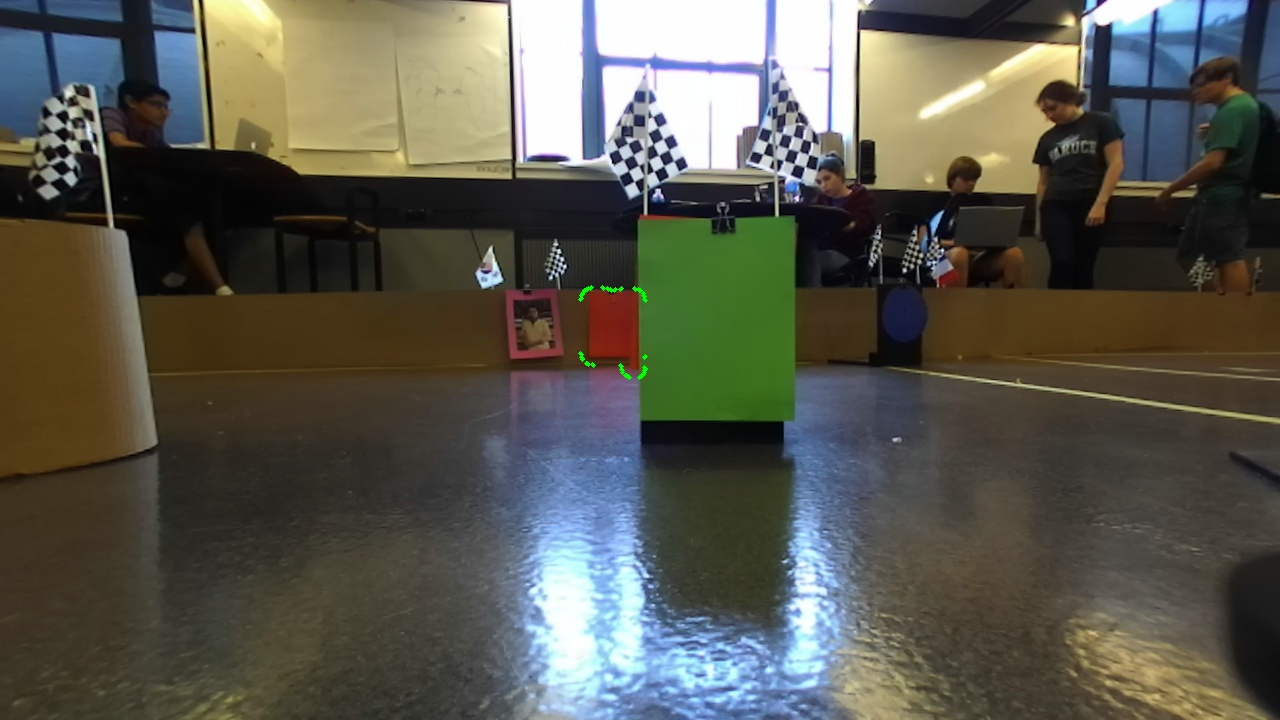
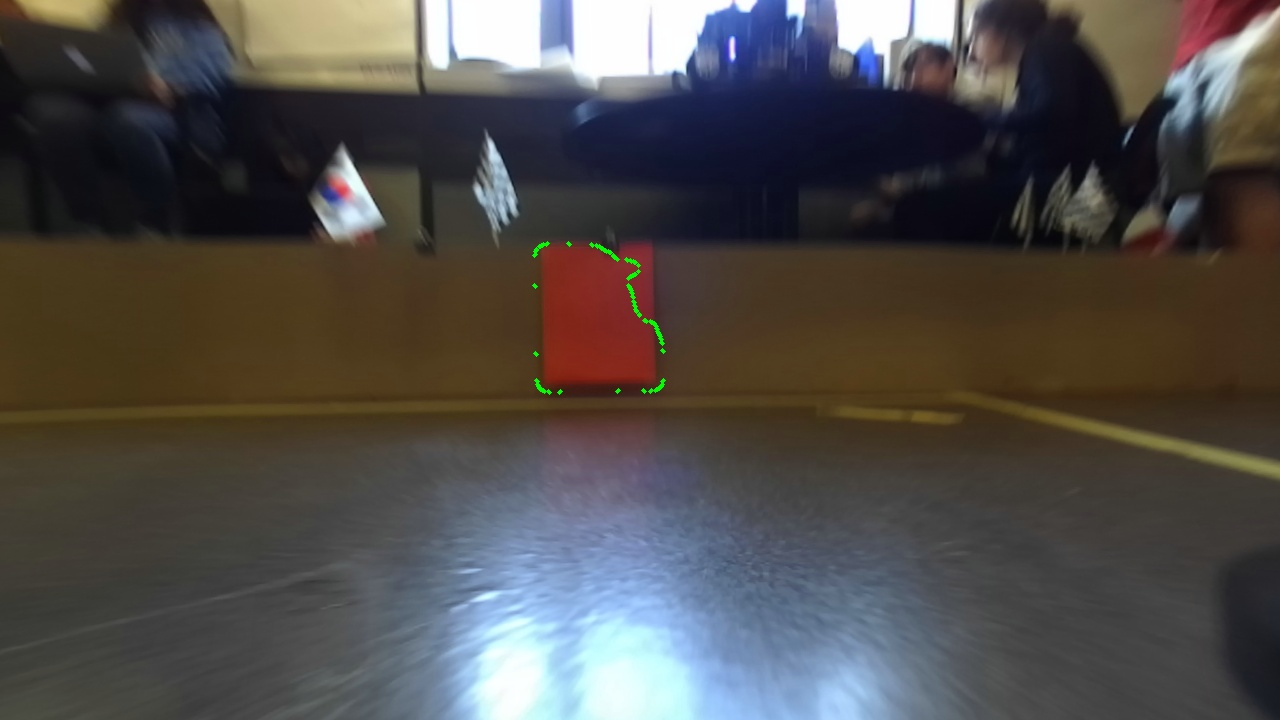
committed

diff --git a/scripts/color_turn.py b/scripts/color_turn.py
@@ -8,13 +8,17 @@ from cv_bridge import CvBridge
 from fieldYifan import getAround
 from racecar import racecar
 from color_pickup import colorPicker, contours
+import PIL
+from PIL import ImageFont
+from PIL import Image
+from PIL import ImageDraw
 
 #state = 1 => driving towards the blob state = 2 => making the turn
-global state = 1
+
 #seen = 1 => haven't finished the turn yet. 2=> finished the turn
-global seen = 1
+
 #default color is red
-global color = "red"
+
 class color_turn:
     def __init__(self):
         print("inited")
@@ -23,34 +27,43 @@ class color_turn:
         self.seen = 1
         self.color = "red"
         self.notTurned = True
+	self.index = 0
         self.img_sub = rospy.Subscriber("/camera/rgb/image_rect_color", img, self.camCallback)
         self.colorDic = {
         "red":[0,165,100,6,255,255],
-        "green":[60,100,100,70,255,255],
+        "green":[40,100,40,88,255,255],
         }
         self.car = racecar()
         self.field = None
-        self.picker = colorPicker("no")
 
     def camCallback(self,msg):
-        print("processing image")
+        
         self.contourList = []
         img_data = self.bridge.imgmsg_to_cv2(msg)
         for keys in self.colorDic:
             self.contourCreation(keys,img_data)
         if len(self.contourList)>0:
-	        print("got to picker")
-            biggest = self.findBiggest(self.contourList)
+	        
+                biggest = self.findBiggest(self.contourList)
+	else:
+		biggest = None
         if biggest != None:
-	        print("found")
+	    
             x,y,w,h = cv2.boundingRect(biggest.contour)
+	    cv2.drawContours(img_data, biggest.contour, -1, (0, 255, 0), 3)
+	   
             if w*h > 20000: #start turning
+		if self.state == 1:
+			print("too big")
                 self.state = 2
                 self.color = biggest.text
             else:
-                error = x+w/2-640
-                steering = -0.01*error
-                self.car.drive(0.5,steering)
+		if self.state == 1:
+			print("driving towards the blob")
+                	error = x+w/2-640
+			self.saveImg(img_data,str(error))
+                	steering = -0.0005*error
+                	self.car.drive(0.5,steering)
         else:
     	    print("doesn't see anything")
     	    if self.state == 2:
@@ -69,7 +82,24 @@ class color_turn:
         if self.field != None:
             if self.seen == 2 and self.notTurned == True:
                 self.notTurned = False
-                self.field.y_boost = -self.field.y_boost
+                self.field.y_boost = -self.field.y_boost * 2
+
+    def contourAppend(self,contourList,contour,color):
+		for x in contour[0]:
+			appendedStuff = contours(x,color)
+			contourList.append(appendedStuff)
+
+    def saveImg(self,img,text):
+    	cv2.imwrite("troll.jpeg",img)
+    	pic = Image.open("troll.jpeg")
+    	font = ImageFont.truetype("/usr/share/fonts/truetype/ubuntu-font-family/Ubuntu-B.ttf",50)
+    	draw = ImageDraw.Draw(pic)
+    	draw.text((0, 0),text,(255,255,0),font=font)
+    	rand = self.index
+    	self.index = self.index + 1
+    	fileName = "/home/racecar/turn_photos/"+str(rand)+".jpeg"
+    	pic.save(fileName,"jpeg")
+
 
     def contourCreation(self,color,img):
         hsv = cv2.cvtColor(img, cv2.COLOR_BGR2HSV)
@@ -85,7 +115,7 @@ class color_turn:
 		for x in contourList:
 			if cv2.contourArea(x.contour)>cv2.contourArea(result.contour):
 				result = x
-		if cv2.contourArea(result.contour)>2500:
+		if cv2.contourArea(result.contour)>1000:
 			return result
 		else:
 			return None

diff --git a/scripts/fieldYifan.py b/scripts/fieldYifan.py
@@ -14,7 +14,7 @@ class getAround:
 		# create Subscriber and initialize racecar class
         self.scanResult = rospy.Subscriber("/scan",LaserScan,self.callBack)
         self.pub_goal = rospy.Publisher("~potentialFieldGoal", PointStamped, queue_size=1)
-        #self.tfResult = rospy.Subscriber("/tf",TFMessage,self.adjust)
+        self.tfResult = rospy.Subscriber("/tf",TFMessage,self.adjust)
 
         # create racecar object
         self.car = racecar()
@@ -22,8 +22,9 @@ class getAround:
         # VARIABLES
         self.STEERING_CONSTANT = 1.0
         self.SPEED_CONSTANT = 0.06
-        self.x_boost = 20
+        self.x_boost = 25
         self.y_boost = 0
+	self.drivingSpeed = 0
         self.boost_constant = 0.02
 
 
@@ -39,7 +40,7 @@ class getAround:
             total_y = total_y - math.sin(radianAng)/(msg.ranges[i]**2)
 
         # incorporate constant coefficients
-        total_x = total_x * self.boost_constant + self.x_boost
+        total_x = total_x * self.boost_constant + self.x_boost - self.drivingSpeed
         total_y = total_y * self.boost_constant + self.y_boost
 
         # Transform this gradient vector into a PoseStamped object
@@ -55,6 +56,7 @@ class getAround:
         # calculate steering_angle & speed
         steering_angle = ((1-2*self.SPEED_CONSTANT) * np.sign(total_x) * math.atan2(total_y, total_x))
         speed = (self.SPEED_CONSTANT * np.sign(total_x) * math.sqrt(total_x**2 + total_y**2))
+	self.drivingSpeed = speed
         #if steering_angle < 0.05:
         #    steering_angle = 10*steering_angle
 
@@ -65,11 +67,11 @@ class getAround:
     '''
     Adjusts the y_boost value to ensure that the car explores the entire space.
     '''
-    #def adjust(self,msg):
-     #   transformation = msg.transforms
-      #  movingComp = transformation[0].transform
-       # vector = movingComp.translation
-        #self.y_boost = -5/(1+5*math.exp(-vector.y))
+    def adjust(self,msg):
+        transformation = msg.transforms
+        movingComp = transformation[0].transform
+        vector = movingComp.translation
+        self.y_boost = -5/(1+5*math.exp(-vector.y))
 
 if __name__ == "__main__":
     # initialize the ROS client API, giving the default node name

diff --git a/scripts/color_pickup.py b/scripts/color_pickup.py
@@ -65,19 +65,21 @@ class colorPicker:
     		bigContour.text += " " + self.shapeContour(bigContour)
     		print(bigContour.text)
         	self.saveImg(img,bigContour.text)
-        	self.img_pub.publish(bigContour.text)
+		self.img_pub.publish(bigContour.text)
         else:
             x,y,w,h = cv2.boundingRect(bigContour.contour)
-            hsv = cv2.cvtColor(img, cv2.COLOR_BGR2GRAY)
+            hsv = cv2.cvtColor(img, cv2.COLOR_BGR2HSV)
+	    gray = cv2.cvtColor(img, cv2.COLOR_BGR2GRAY)
     	    padding = 30
             sliced = hsv[y+padding:y+h-padding,x+padding:x+w-padding,:]
-    	    #mask = cv2.inRange(sliced, np.array([165,100,100]), np.array([170, 255, 255]))
-    	    #pink = cv2.bitwise_not(mask)
-    	    #sliced = cv2.bitwise_and(sliced, sliced, mask=pink)
+	    slicedGray = hsv[y+padding:y+h-padding,x+padding:x+w-padding]
+    	    mask = cv2.inRange(sliced, np.array([165,100,100]), np.array([170, 255, 255]))
+    	    pink = cv2.bitwise_not(mask)
+    	    sliced = cv2.bitwise_and(slicedGray, sliced, mask=pink)
             hsvTest = cv2.calcHist(sliced,[0,1],None,[180,256],ranges)
             description = self.checkMatch(hsvTest,self.imgDict)
-            self.saveImg(img,description)
-            self.img_pub.publish(description)
+            self.saveImg(sliced,description)
+	    self.img_pub.publish(description)
 
     def shapeContour(self, cnt):
     	epsilon = 0.021*cv2.arcLength(cnt.contour, True)
@@ -119,7 +121,7 @@ class colorPicker:
         published = cv2.imread(fileName)
         published_msg = self.bridge.cv2_to_imgmsg(published)
         self.rqt_pub.publish(published_msg)
-	    self.img_pub.publish(text)
+	self.img_pub.publish(text)
 
     def contourCreation(self,color,img):
         hsv = cv2.cvtColor(img, cv2.COLOR_BGR2HSV)
